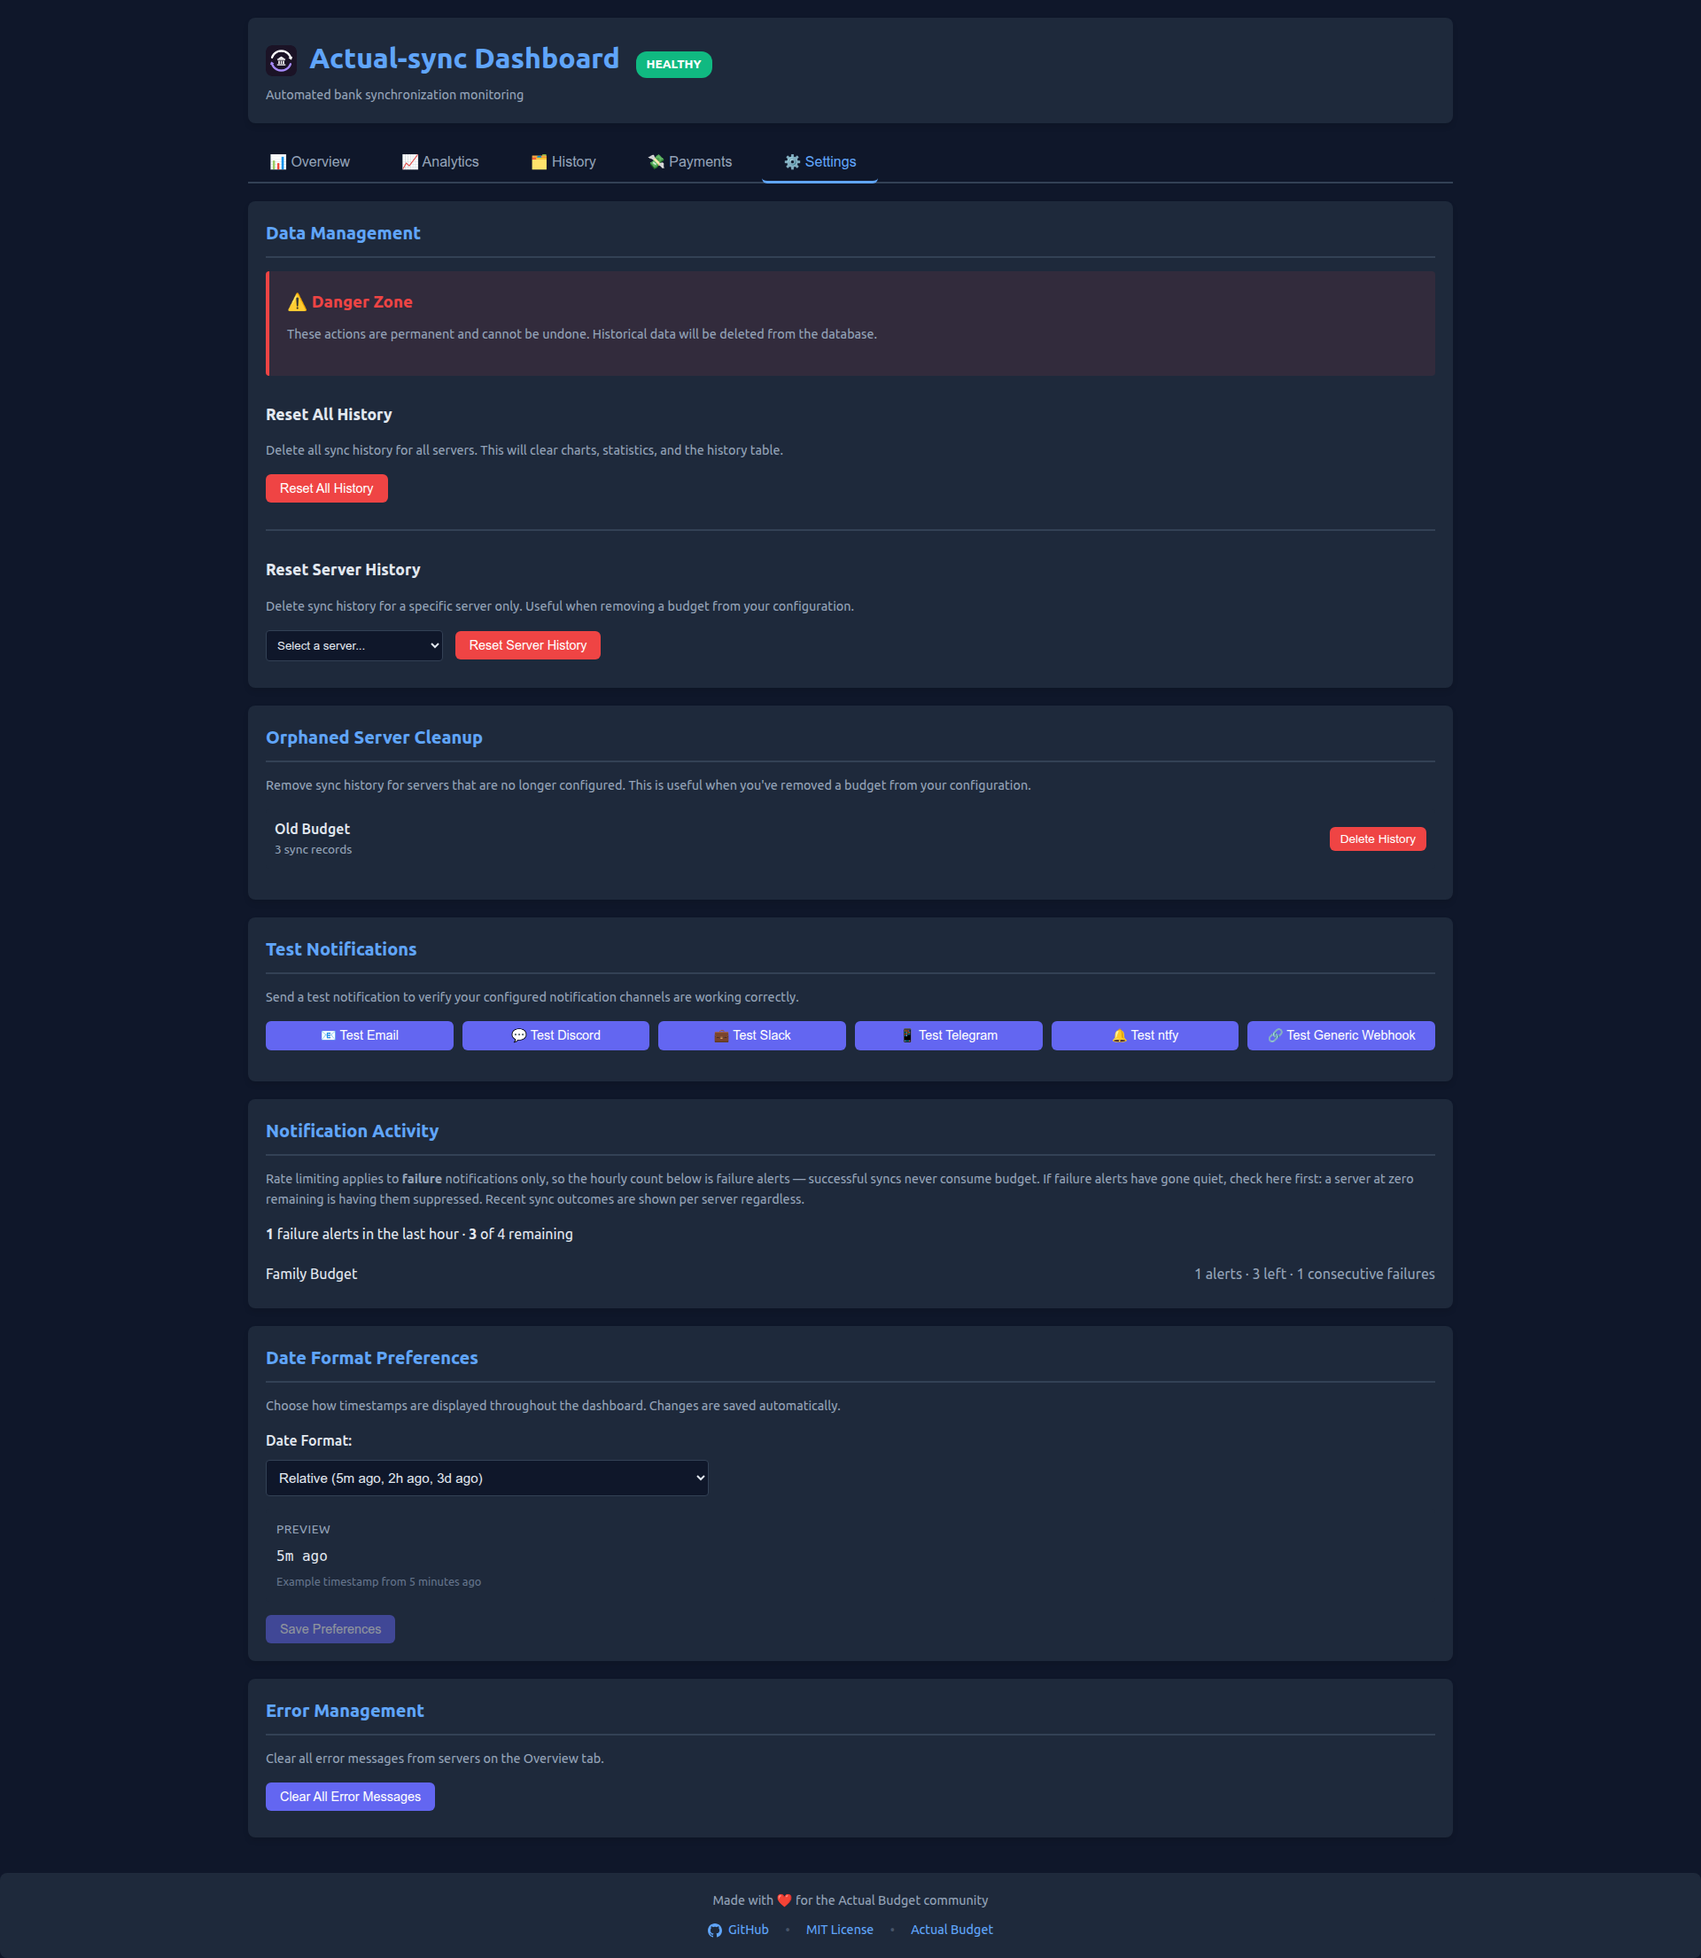
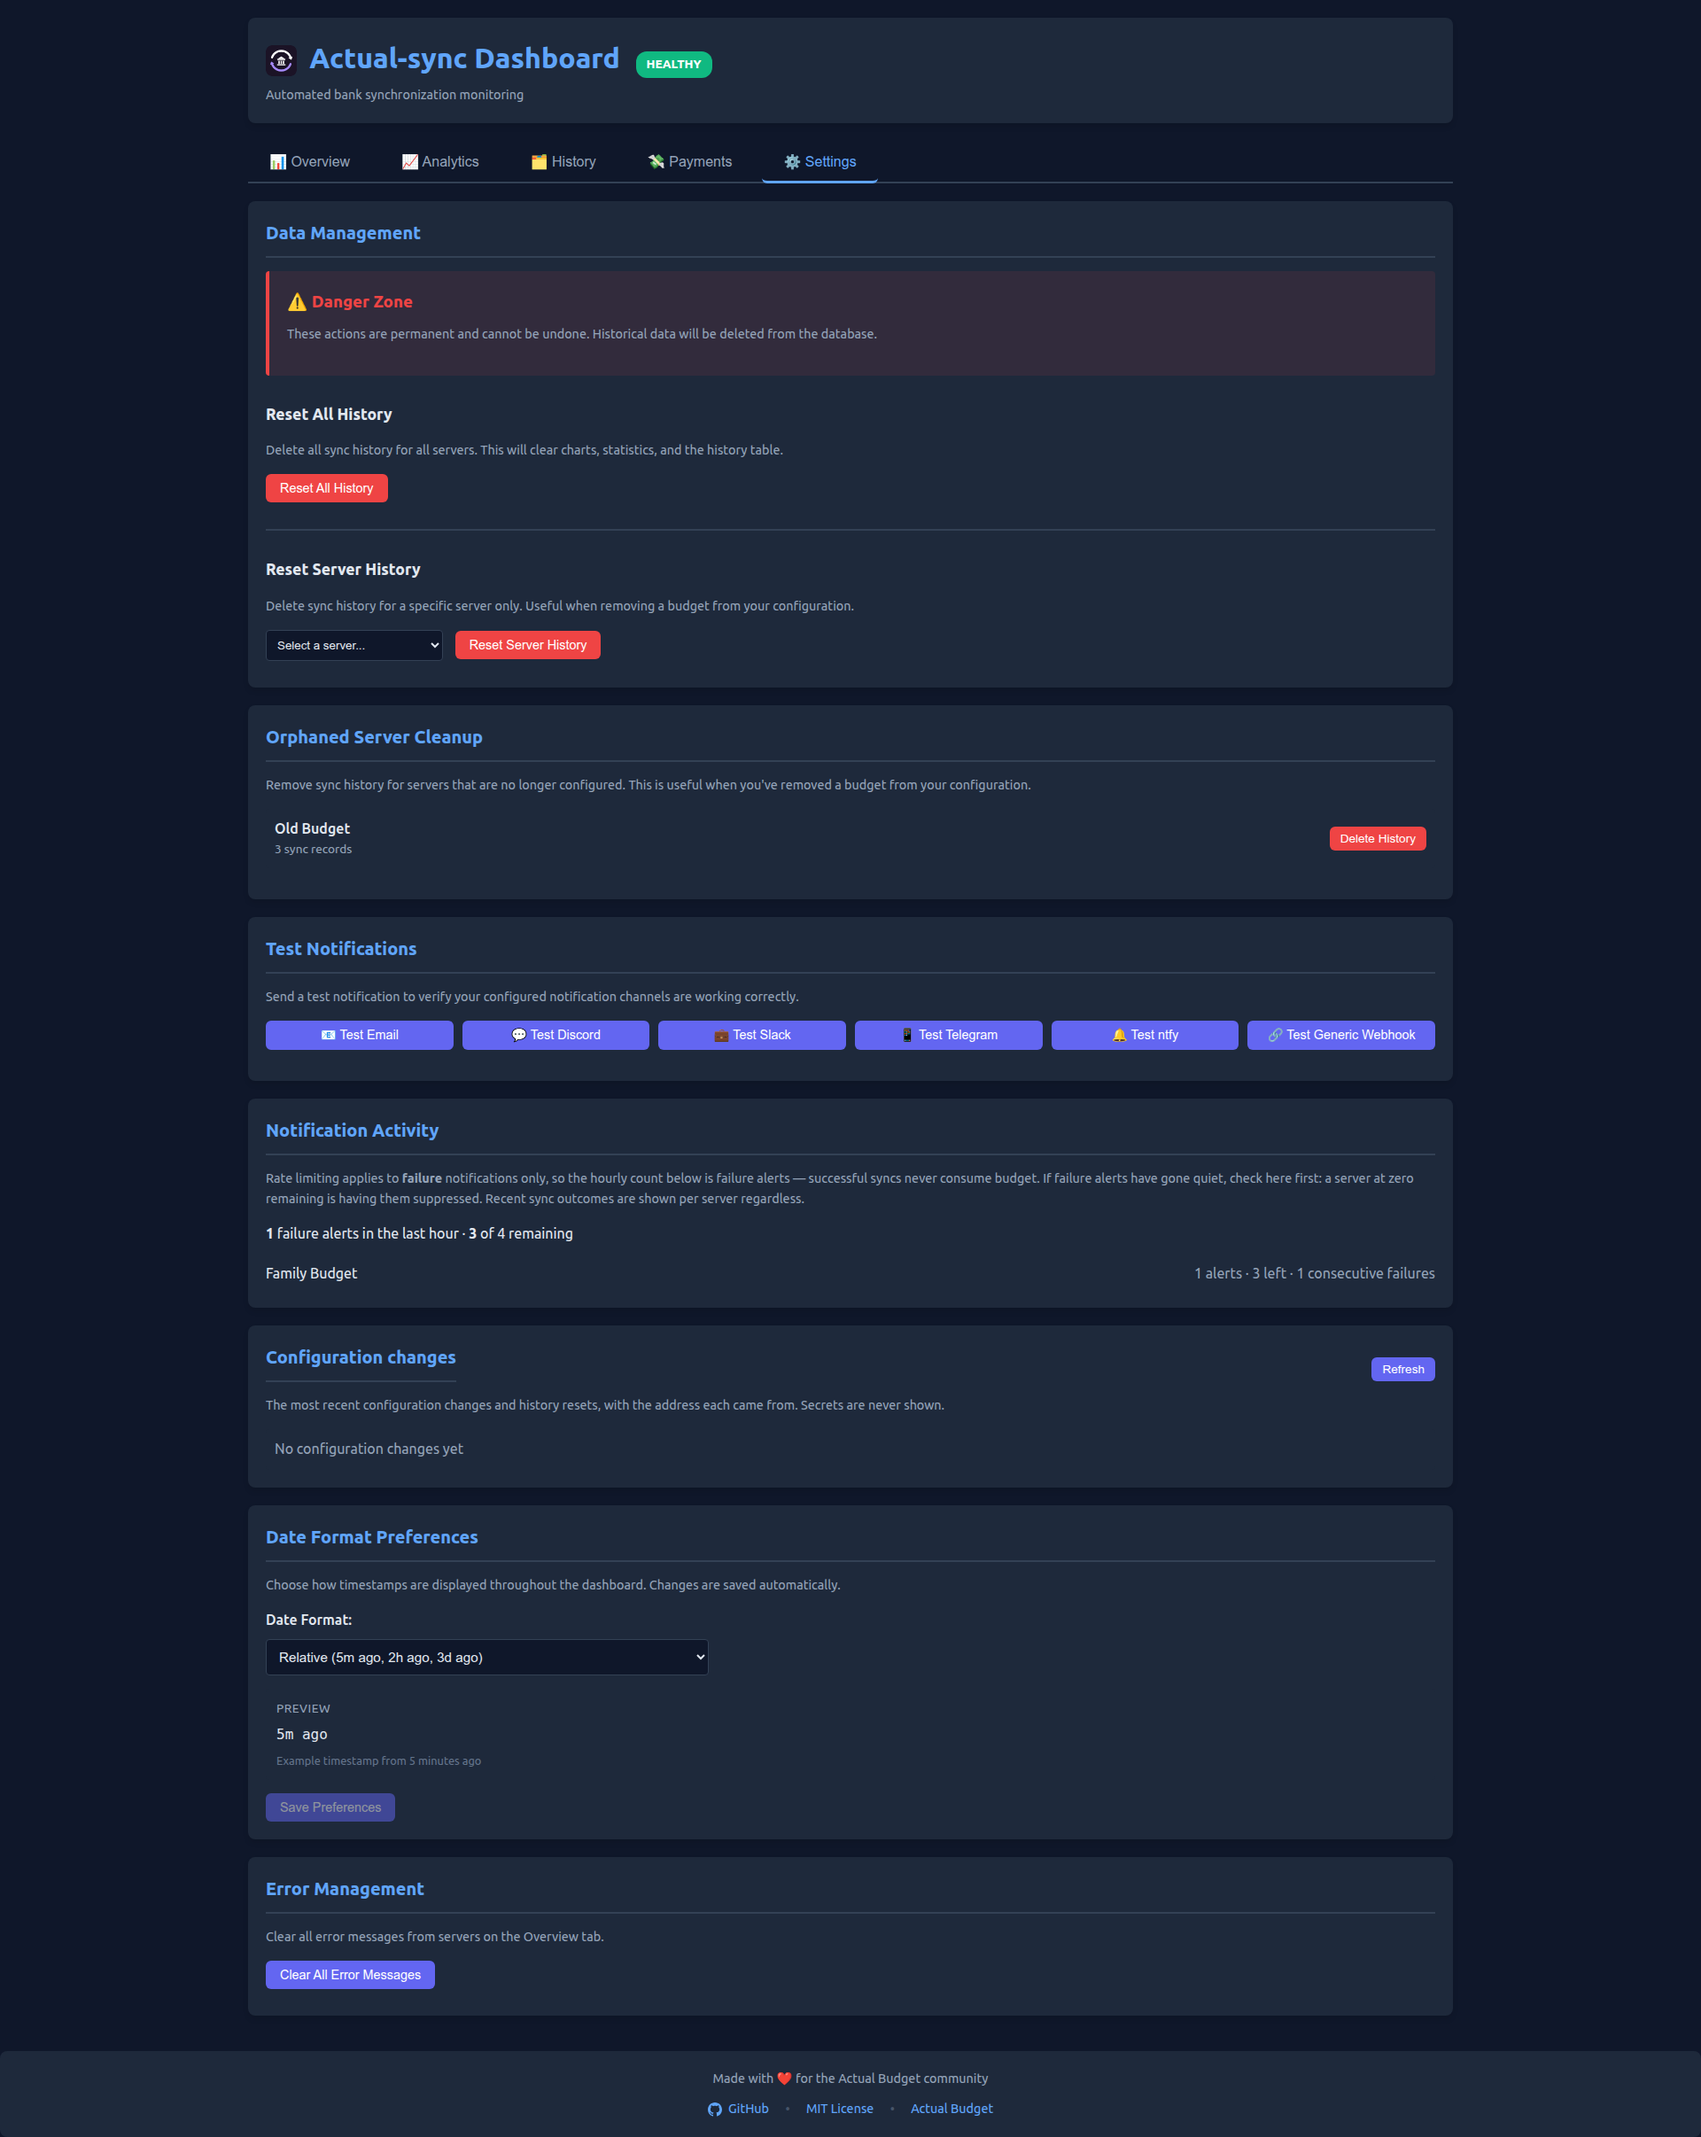
test(e2e): audit list, forged-origin and writes-enabled specs, screenshots (#259)
Claude-Session: https://claude.ai/code/session_01DyDhPtA1DW3xkghyUgi4b8

diff --git a/tests/e2e/settings.e2e.js b/tests/e2e/settings.e2e.js
@@ -2,7 +2,7 @@
  * Settings tab: Danger Zone, orphaned server cleanup, notification stats and
  * date format preference controls (#263).
  */
-const { launchBrowser, closeBrowser, withDashboard, clickTab } = require('./fixtures/browser');
+const { launchBrowser, closeBrowser, withDashboard, withFixture, clickTab } = require('./fixtures/browser');
 
 describe('dashboard settings tab (#263)', () => {
   let browser;
@@ -57,6 +57,90 @@ describe('dashboard settings tab (#263)', () => {
       await page.select('#date-format-select', 'relative');
       const afterRevert = await page.$eval('#save-date-format-btn', (el) => el.disabled);
       expect(afterRevert).toBe(true);
+    });
+  });
+  describe('Configuration changes list (#259)', () => {
+    const listText = (page) => page.$eval('#config-audit-list', (el) => el.textContent);
+    const waitForList = (page) => page.waitForFunction(() => {
+      const el = document.getElementById('config-audit-list');
+      return el && !el.textContent.includes('Loading');
+    });
+
+    test('lists the seeded entries newest first, each with its remote address', async () => {
+      await withDashboard('settings-audit', async ({ page }) => {
+        await clickTab(page, 'Settings');
+        await waitForList(page);
+
+        const entries = await page.$$eval('#config-audit-list .config-audit-entry', (els) => els.map((el) => el.textContent));
+        expect(entries).toHaveLength(3);
+        // Newest first: 30, 90 then 180 minutes ago.
+        expect(entries[0]).toContain('10.0.0.7');
+        expect(entries[1]).toContain('192.168.1.21');
+        expect(entries[1]).toContain('internet');
+        expect(entries[2]).toContain('192.168.1.20');
+        expect(entries[2]).toContain('rent');
+      });
+    });
+
+    test('shows the empty state when nothing was recorded', async () => {
+      await withDashboard('settings', async ({ page }) => {
+        await clickTab(page, 'Settings');
+        await waitForList(page);
+        expect(await listText(page)).toContain('No configuration changes yet');
+      });
+    });
+
+    test('shows the error state with the status, not the empty state, and the rest of Settings still renders', async () => {
+      await withFixture('settings-audit', async ({ page, fixture }) => {
+        // Set before the page is opened, so the first load already fails.
+        fixture.service.syncHistory.getConfigAudit = () => { throw new Error('disk I/O error'); };
+        await page.goto(`${fixture.url}/dashboard`, { waitUntil: 'networkidle0' });
+        await clickTab(page, 'Settings');
+        await waitForList(page);
+
+        const text = await listText(page);
+        expect(text).toContain('Failed to load configuration changes (HTTP 500)');
+        expect(text).not.toContain('No configuration changes yet');
+        expect(text).not.toContain('disk I/O error');
+
+        await page.waitForFunction(() => {
+          const el = document.getElementById('orphaned-servers-list');
+          return el && !el.textContent.includes('Loading');
+        });
+        expect(await page.$eval('#orphaned-servers-list', (el) => el.textContent)).toContain('Old Budget');
+      });
+    });
+
+    test('renders a markup-like target as text', async () => {
+      await withDashboard('settings-audit', async ({ page }) => {
+        await clickTab(page, 'Settings');
+        await waitForList(page);
+
+        expect(await listText(page)).toContain('<img src=x onerror="window.__xss=1">');
+        expect(await page.$('#config-audit-list img')).toBeNull();
+        expect(await page.evaluate(() => window.__xss)).toBeUndefined();
+      });
+    });
+  });
+
+  describe('writes-enabled state (#259)', () => {
+    test('an injected button still works through the Origin guard and capabilities reports writes on', async () => {
+      await withFixture('writes-enabled', async ({ page, fixture }) => {
+        await page.authenticate({ username: 'fixture-user', password: 'fixture-pass' });
+        await page.goto(`${fixture.url}/dashboard`, { waitUntil: 'networkidle0' });
+
+        // The per-server sync buttons are rendered through innerHTML after load,
+        // so a click proves the delegated document listener still fires.
+        await page.waitForSelector('button[data-action="triggerSyncByIndex"]');
+        const syncResponse = page.waitForResponse((res) => res.url().endsWith('/api/dashboard/sync') && res.request().method() === 'POST');
+        await page.click('button[data-action="triggerSyncByIndex"]');
+        const res = await syncResponse;
+        expect(res.status()).toBe(200);
+        expect(fixture.calls.syncBank).toHaveLength(1);
+
+        const capabilities = await page.evaluate(async () => (await fetch('/api/dashboard/capabilities')).json());
+        expect(capabilities).toEqual({ configWrites: true, reason: null });
+      });
     });
   });
 });

diff --git a/tests/e2e/fixtures/browser.js b/tests/e2e/fixtures/browser.js
@@ -21,6 +21,7 @@
  */
 
 const fs = require('fs');
+const http = require('http');
 const path = require('path');
 const { startFixtureServer, FIXTURE_NOW } = require('./index');
 
@@ -271,7 +272,41 @@ async function withDashboard(stateName, fn, options = {}) {
   }, rest);
 }
 
+/**
+ * Send a raw Node http request to the fixture server with caller-chosen
+ * headers. A browser page cannot be made to send a foreign Origin (it is a
+ * forbidden header, and openPage() aborts every other origin), so the
+ * cross-origin specs (#259) go through Node instead.
+ * @param {string} baseUrl - fixture.url
+ * @param {{ method?: string, path: string, headers?: Object, body?: string }} options
+ * @returns {Promise<{ status: number, headers: Object, body: any }>}
+ */
+function rawRequest(baseUrl, { method = 'GET', path: reqPath, headers = {}, body } = {}) {
+  const target = new URL(baseUrl);
+  return new Promise((resolve, reject) => {
+    const req = http.request({
+      hostname: target.hostname,
+      port: target.port,
+      path: reqPath,
+      method,
+      headers: body === undefined ? headers : { 'Content-Length': Buffer.byteLength(body), ...headers }
+    }, (res) => {
+      let data = '';
+      res.on('data', (chunk) => { data += chunk; });
+      res.on('end', () => {
+        let parsed = data;
+        try { parsed = JSON.parse(data); } catch { /* not JSON */ }
+        resolve({ status: res.statusCode, headers: res.headers, body: parsed });
+      });
+    });
+    req.on('error', reject);
+    if (body !== undefined) req.write(body);
+    req.end();
+  });
+}
+
 module.exports = {
+  rawRequest,
   launchBrowser,
   closeBrowser,
   openPage,

diff --git a/tests/e2e/manualSync.e2e.js b/tests/e2e/manualSync.e2e.js
@@ -1,7 +1,7 @@
 /**
  * Manual sync trigger and error dismissal (#263).
  */
-const { launchBrowser, closeBrowser, withDashboard } = require('./fixtures/browser');
+const { launchBrowser, closeBrowser, withDashboard, rawRequest } = require('./fixtures/browser');
 
 describe('dashboard manual sync and dismiss (#263)', () => {
   let browser;
@@ -87,6 +87,29 @@ describe('dashboard manual sync and dismiss (#263)', () => {
         const data = await res.json();
         return data.servers['Personal Budget'].errorDismissed === true;
       }, {}, `${fixture.url}/api/dashboard/status`);
+    });
+  });
+  test('refuses a forged cross-origin POST and never starts the sync (#259)', async () => {
+    await withDashboard('healthy', async ({ fixture }) => {
+      const body = JSON.stringify({ server: 'Main Budget' });
+      const forged = await rawRequest(fixture.url, {
+        method: 'POST',
+        path: '/api/dashboard/sync',
+        headers: { 'Content-Type': 'application/json', Origin: 'https://evil.example' },
+        body
+      });
+      expect(forged.status).toBe(403);
+      expect(forged.body).toEqual({ error: 'origin_rejected' });
+      expect(fixture.calls.syncBank).toEqual([]);
+
+      // The same request without an Origin (curl, Home Assistant) still works.
+      const headerless = await rawRequest(fixture.url, {
+        method: 'POST',
+        path: '/api/dashboard/sync',
+        headers: { 'Content-Type': 'application/json' },
+        body
+      });
+      expect(headerless.status).toBe(200);
     });
   });
 });

diff --git a/tests/e2e/fixtures/index.js b/tests/e2e/fixtures/index.js
@@ -113,6 +113,15 @@ function seeder(clock, hc, history) {
     paymentRunFailure(serverName, errorCode, minutesAgo = 0) {
       at(minutesAgo, () => history.recordPaymentRunFailure(serverName, errorCode));
     },
+    /**
+     * One configuration change in the audit trail (#259), recorded the way a
+     * config route will record it.
+     * @param {{ server?: string, remoteAddr?: string, action: string, target?: string, changes?: Object }} change
+     * @param {number} [minutesAgo=0]
+     */
+    configChange(change, minutesAgo = 0) {
+      at(minutesAgo, () => history.recordConfigChange(change));
+    },
     /** A delivered alert in the ledger, which the route joins as "Last alert". */
     scheduleAlert(alert, minutesAgo = 0) {
       at(minutesAgo, () => {
@@ -177,7 +186,12 @@ async function startFixtureServer(stateName, overrides = {}) {
     // /api/dashboard/metrics only checks that a Prometheus service exists.
     prometheusService: { getMetrics: async () => '', recordSync: () => {} },
     notificationService,
-    dashboardConfig: { enabled: true, auth: state.auth || { type: 'none' } },
+    dashboardConfig: {
+      enabled: true,
+      auth: state.auth || { type: 'none' },
+      allowConfigWrites: state.allowConfigWrites,
+      allowedOrigins: state.allowedOrigins
+    },
     getServers: () => servers,
     getCronSchedules: () => (state.schedules || []).map(s => ({
       ...s,

diff --git a/tests/e2e/fixtures/states/settings-audit.js b/tests/e2e/fixtures/states/settings-audit.js
@@ -1,0 +1,22 @@
+// Settings plus three configuration changes in the audit trail, the newest
+// with a markup-like target for the escaping spec. (#259)
+const settings = require('./settings');
+
+module.exports = {
+  ...settings,
+  seed(s) {
+    settings.seed(s);
+    s.configChange({
+      server: 'Main Budget', remoteAddr: '192.168.1.20', action: 'payment_alert_state',
+      target: 'rent', changes: { enabled: [true, false] }
+    }, 180);
+    s.configChange({
+      server: 'Family Budget', remoteAddr: '192.168.1.21', action: 'payment_alert_state',
+      target: 'internet', changes: { mutedUntil: [null, '2026-02-01'], reason: '[redacted]' }
+    }, 90);
+    s.configChange({
+      server: 'Personal Budget', remoteAddr: '10.0.0.7', action: 'payment_alert_state',
+      target: '<img src=x onerror="window.__xss=1">', changes: { enabled: [false, true] }
+    }, 30);
+  }
+};

diff --git a/tests/e2e/fixtures/states/writes-enabled.js b/tests/e2e/fixtures/states/writes-enabled.js
@@ -1,0 +1,8 @@
+// Basic auth with configuration writes enabled: the one state where the Origin
+// guard sits in front of an enabled write path. Test-only credentials. (#259)
+const authBasic = require('./auth-basic');
+
+module.exports = {
+  ...authBasic,
+  allowConfigWrites: true
+};

diff --git a/docs/screenshots/README.md b/docs/screenshots/README.md
@@ -24,7 +24,7 @@ npm install
 npm run screenshots
 ```
 
-This creates the 11 screenshots listed in `tests/e2e/screenshots.json`:
+This creates the 14 screenshots listed in `tests/e2e/screenshots.json`:
 
 - `dashboard-overview-healthy.png` - Overview tab, three servers all syncing cleanly, 2-column layout
 - `dashboard-overview-degraded.png` - Overview tab, degraded system with failing and partial servers
@@ -34,9 +34,12 @@ This creates the 11 screenshots listed in `tests/e2e/screenshots.json`:
 - `dashboard-history.png` - History tab, recent syncs table
 - `dashboard-history-errors.png` - History tab, a longer run with a known number of failure rows
 - `dashboard-settings.png` - Settings tab, scrolled to date format preferences
+- `dashboard-settings-audit.png` - Settings tab, the Configuration changes list with three recorded changes
 - `dashboard-settings-danger-zone.png` - Settings tab, Danger Zone reset controls and orphaned server cleanup
 - `dashboard-hero.png` - Full dashboard hero shot, six servers, used for the README gallery
 - `dashboard-accounts.png` - Accounts card, syncable, manual and closed accounts across three servers
+- `dashboard-payments.png` - Payments tab, missing-payment alerts per server
+- `dashboard-payments-empty.png` - Payments tab, a server with alerts not configured
 
 ### How It Works
 
